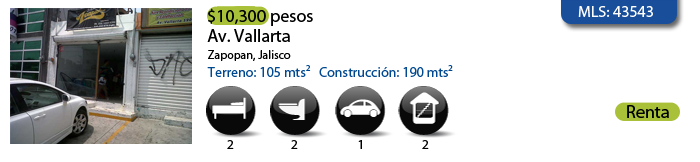
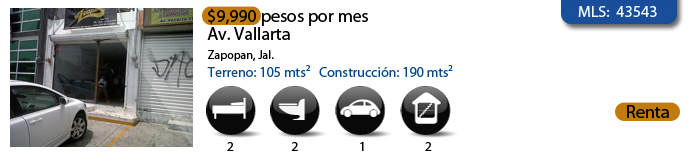
Se actualiza 43543 como parate de 2013-01-B

diff --git a/Locales/renta/43543/mls-43543.html b/Locales/renta/43543/mls-43543.html
@@ -1,0 +1,94 @@
+<style type="text/css">
+<!--
+body {
+	background-attachment: fixed;
+	background-color: #699BDA;
+	background-image: url(../../../imgs/corp/fondo.jpg);
+	background-repeat: no-repeat;
+	background-position:top center;
+	margin-top: 0px;
+	margin-right: 0px;
+	margin-bottom: 0px;
+	margin-left: 0px;
+	}
+-->
+</style>
+<script src="Scripts/AC_RunActiveContent.js" type="text/javascript"></script>
+<title>Coldwell Banker Andares | Bienes Ra&iacute;ces</title>
+<script type="text/javascript">
+<!--
+function MM_swapImgRestore() { //v3.0
+  var i,x,a=document.MM_sr; for(i=0;a&&i<a.length&&(x=a[i])&&x.oSrc;i++) x.src=x.oSrc;
+}
+function MM_preloadImages() { //v3.0
+  var d=document; if(d.images){ if(!d.MM_p) d.MM_p=new Array();
+    var i,j=d.MM_p.length,a=MM_preloadImages.arguments; for(i=0; i<a.length; i++)
+    if (a[i].indexOf("#")!=0){ d.MM_p[j]=new Image; d.MM_p[j++].src=a[i];}}
+}
+
+function MM_findObj(n, d) { //v4.01
+  var p,i,x;  if(!d) d=document; if((p=n.indexOf("?"))>0&&parent.frames.length) {
+    d=parent.frames[n.substring(p+1)].document; n=n.substring(0,p);}
+  if(!(x=d[n])&&d.all) x=d.all[n]; for (i=0;!x&&i<d.forms.length;i++) x=d.forms[i][n];
+  for(i=0;!x&&d.layers&&i<d.layers.length;i++) x=MM_findObj(n,d.layers[i].document);
+  if(!x && d.getElementById) x=d.getElementById(n); return x;
+}
+
+function MM_swapImage() { //v3.0
+  var i,j=0,x,a=MM_swapImage.arguments; document.MM_sr=new Array; for(i=0;i<(a.length-2);i+=3)
+   if ((x=MM_findObj(a[i]))!=null){document.MM_sr[j++]=x; if(!x.oSrc) x.oSrc=x.src; x.src=a[i+2];}
+}
+//-->
+</script>
+<script src="Scripts/AC_ActiveX.js" type="text/javascript"></script>
+<body onLoad="MM_preloadImages('Botones/Departamentos2.png','Botones/Terrenos2.png','Botones/Locales2.png','Botones/Bodegas2.png','Botones/Oficinas2.png','Menu/resto.png','Menu/queescb2.png','Menu/garantia2.png','Menu/oficinas2.png','Menu/personal2.png','Menu/contactanos2.png','Botones/Casas2.png')">
+ <table width="100%" height="459" border="0" cellpadding="0" cellspacing="0">
+  <tr>
+    <td width="40%" height="116">&nbsp;</td>
+    <td width="136"><img src="../../../imgs/corp/logo.jpg" width="136" height="75"></td>
+    <th width="12" nowrap="nowrap">&nbsp;</th>
+    <td width="46"><a href="../../../index.html" onMouseOut="MM_swapImgRestore()" onMouseOver="MM_swapImage('Casas','','../../../imgs/btn/Casas2.png',1)"><img src="../../../imgs/btn/Casas1.png" name="Casas" width="46" height="22" border="0"></a></td>
+    <th width="12" nowrap="nowrap">&nbsp;</th>
+    <td width="134"><a href="../../../Departamentos.html" onMouseOut="MM_swapImgRestore()" onMouseOver="MM_swapImage('Departamentos','','../../../imgs/btn/Departamentos2.png',1)"><img src="../../../imgs/btn/Departamentos1.png" name="Departamentos" width="134" height="22" border="0" id="Departamentos" /></a></td>
+    <th width="12" nowrap="nowrap">&nbsp;</th>
+    <td width="80"><a href="../../../Terrenos.html" onMouseOut="MM_swapImgRestore()" onMouseOver="MM_swapImage('Terrenos','','../../../imgs/btn/Terrenos2.png',1)"><img src="../../../imgs/btn/Terrenos1.png" name="Terrenos" width="80" height="22" border="0" id="Terrenos" /></a></td>
+    <th width="12" nowrap="nowrap">&nbsp;</th>
+    <td width="67"><a href="../../../Locales.html" onMouseOut="MM_swapImgRestore()" onMouseOver="MM_swapImage('Locales','','../../../imgs/btn/Locales2.png',1)"><img src="../../../imgs/btn/Locales1.png" name="Locales" width="67" height="22" border="0" id="Locales" /></a></td>
+    <th width="12" nowrap="nowrap">&nbsp;</th>
+    <td width="76"><a href="../../../Bodegas.html" onMouseOut="MM_swapImgRestore()" onMouseOver="MM_swapImage('Bodegas','','../../../imgs/btn/Bodegas2.png',1)"><img src="../../../imgs/btn/Bodegas1.png" name="Bodegas" width="76" height="22" border="0" id="Bodegas" /></a></td>
+    <th width="12" nowrap="nowrap">&nbsp;</th>
+    <td width="74"><a href="../../../Oficinas.html" onMouseOut="MM_swapImgRestore()" onMouseOver="MM_swapImage('Oficinas','','../../../imgs/btn/2oficinas.png',1)"><img src="../../../imgs/btn/Oficinas1.png" name="Oficinas" width="74" height="22" border="0" id="Oficinas" /></a></td>
+    <th width="220" nowrap="nowrap"><img src="../../../imgs/banners/Banner1.gif" width="200" height="113"></th>
+    <td width="40%">&nbsp;</td>
+  </tr>
+  
+  <tr>
+    <td width="40" rowspan="2">&nbsp;</td>
+    <td height="30" colspan="14" align="center" valign="bottom">&nbsp;</td>
+    <td width="40%" rowspan="2">&nbsp;</td>
+  </tr>
+  <tr>
+    <td height="1000" colspan="14" align="left" valign="top"><table width="700" border="0" cellspacing="0" cellpadding="0">
+      <tr>
+        <td width="532" height="5126" valign="top" scope="col"><p><img src="Web-2.png" width="700" height="211"><img src="facebook/1.jpg" width="700" height="525"></p>
+          <p>&nbsp;<br/></p>
+          <p><img src="facebook/2.jpg" width="700" height="525"></p>
+          <p><img src="facebook/3.jpg" width="700" height="525"></p>
+          <p><img src="facebook/4.jpg" width="700" height="525"></p>
+          <p><img src="facebook/5.jpg" width="700" height="525"></p>
+          <p><img src="facebook/6.jpg" width="700" height="525"></p>
+          <p><img src="facebook/7.jpg" width="525" height="700"> </p>
+          <p><img src="facebook/8.jpg" width="700" height="525"></p>
+          <p><img src="facebook/9.jpg" width="700" height="525"></p></td>
+        <th width="20" valign="top" nowrap scope="col"><p>&nbsp;</p>
+          <p>&nbsp;</p>
+          <p>&nbsp;</p></th>
+        <th width="200" height="5126" align="left" valign="top" scope="col"><a href="../../../ColdwellBankerAndares.html" onMouseOut="MM_swapImgRestore()" onMouseOver="MM_swapImage('qes','','../../../imgs/btn/queescb2.png',1)"><img src="../../../imgs/btn/queescb.png" name="qes" width="200" height="38" border="0"></a><a href="../../../Garantia.html" onMouseOut="MM_swapImgRestore()" onMouseOver="MM_swapImage('garantia','','../../../imgs/btn/garantia2.png',1)"><img src="../../../imgs/btn/garantia.png" name="garantia" width="200" height="30" border="0"></a><a href="../../../Historia.html" onMouseOut="MM_swapImgRestore()" onMouseOver="MM_swapImage('historia','','../../../imgs/btn/historia2.png',0)"><img src="../../../imgs/btn/historia.png" name="historia" width="200" height="30" border="0"></a><a href="../../../Instalaciones.html" onMouseOut="MM_swapImgRestore()" onMouseOver="MM_swapImage('oficinas','','../../../imgs/btn/Oficinas2.png',1)"><img src="../../../imgs/btn/oficinas.png" name="oficinas" width="200" height="30" border="0"></a><a href="../../../Personal.html" onMouseOut="MM_swapImgRestore()" onMouseOver="MM_swapImage('personal','','../../../imgs/btn/personal2.png',1)"><img src="../../../imgs/btn/personal.png" name="personal" width="200" height="30" border="0"></a><a href="../../../Contactanos.html" onMouseOut="MM_swapImgRestore()" onMouseOver="MM_swapImage('contacto','','../../../imgs/btn/contactanos2.png',1)"><img src="../../../imgs/btn/contactanos.png" name="contacto" width="200" height="30" border="0"></a><img src="../../../imgs/btn/inferior.png" name="Image18" width="200" height="212" border="0"></th>
+      </tr>
+    </table></td>
+  </tr>
+  
+  <tr>
+    <td colspan="16">&nbsp;</td>
+  </tr>
+</table>

diff --git a/Locales.html b/Locales.html
@@ -69,7 +69,7 @@ function MM_swapImage() { //v3.0
   <tr>
     <td height="1817" colspan="15" align="left" valign="top"><table width="700" border="0" cellspacing="0" cellpadding="0">
       <tr>
-        <td width="532" height="1815" valign="top" scope="col"><p><a href="Locales/renta/42483/mls-42483.html"><img src="Locales/renta/42483/Web-1.png" width="700" height="162"></a><a href="Locales/renta/42330/mls-42330.html"><img src="Locales/renta/42330/Web-1.png" width="700" height="162"></a><a href="Locales/renta/42495/mls-42495.html"><img src="Locales/renta/42495/Web-1.png" width="700" height="162"></a><a href="Locales/renta/42327/mls-42327.html"><img src="Locales/renta/42327/Web-1.png" width="700" height="162"></a><a href="Locales/renta/44575/mls-44575.html"><img src="Locales/renta/44575/Web-1.png" width="700" height="162"></a><a href="Locales/renta/45544/mls-45544.html"><img src="Locales/renta/45544/Web-1.png" width="700" height="162"></a><a href="Locales/renta/41761/mls-41761.html"><img src="Locales/renta/41761/Web-1.png" width="700" height="162"></a><a href="Locales/renta/43543/mls-42543.html"><img src="Locales/renta/43543/Web-1.png" width="700" height="162"></a><a href="Locales/venta/47383/mls-47383.html"><img src="Locales/venta/47383/Web-1.png" width="700" height="162"></a><!--<a href="Locales/renta/43892/mls-43892.html"><img src="Locales/renta/43892/Web-1.png" width="700" height="162"></a>--><!--<a href="Locales/venta/44961/mls-44961.html"><img src="Locales/venta/44961/Web-1.png" width="700" height="162"></a>--><a href="LomaDorada.html"><img src="Locales/LomaDoradaPaseoLomaSur/Web1.png" alt="" width="700" height="162" border="0"></a><a href="Locales/venta/44969/mls-44969.html"><img src="Locales/venta/44969/Web-1.png" width="700" height="162"></a><a href="Locales/venta/45572/mls-45572.html"><img src="Locales/venta/45572/Web-1.png" width="700" height="162"></a></p></td>
+        <td width="532" height="1815" valign="top" scope="col"><p><a href="Locales/renta/42483/mls-42483.html"><img src="Locales/renta/42483/Web-1.png" width="700" height="162"></a><a href="Locales/renta/42330/mls-42330.html"><img src="Locales/renta/42330/Web-1.png" width="700" height="162"></a><a href="Locales/renta/42495/mls-42495.html"><img src="Locales/renta/42495/Web-1.png" width="700" height="162"></a><a href="Locales/renta/42327/mls-42327.html"><img src="Locales/renta/42327/Web-1.png" width="700" height="162"></a><a href="Locales/renta/44575/mls-44575.html"><img src="Locales/renta/44575/Web-1.png" width="700" height="162"></a><a href="Locales/renta/45544/mls-45544.html"><img src="Locales/renta/45544/Web-1.png" width="700" height="162"></a><a href="Locales/renta/41761/mls-41761.html"><img src="Locales/renta/41761/Web-1.png" width="700" height="162"></a><a href="Locales/renta/43543/mls-43543.html"><img src="Locales/renta/43543/Web-1.png" width="700" height="162"></a><a href="Locales/venta/47383/mls-47383.html"><img src="Locales/venta/47383/Web-1.png" width="700" height="162"></a><!--<a href="Locales/renta/43892/mls-43892.html"><img src="Locales/renta/43892/Web-1.png" width="700" height="162"></a>--><!--<a href="Locales/venta/44961/mls-44961.html"><img src="Locales/venta/44961/Web-1.png" width="700" height="162"></a>--><a href="LomaDorada.html"><img src="Locales/LomaDoradaPaseoLomaSur/Web1.png" alt="" width="700" height="162" border="0"></a><a href="Locales/venta/44969/mls-44969.html"><img src="Locales/venta/44969/Web-1.png" width="700" height="162"></a><a href="Locales/venta/45572/mls-45572.html"><img src="Locales/venta/45572/Web-1.png" width="700" height="162"></a></p></td>
         <th width="20" valign="top" nowrap scope="col">&nbsp;</th>
         <th width="200" height="1815" align="left" valign="top" scope="col"><p><a href="ColdwellBankerAndares.html" onMouseOut="MM_swapImgRestore()" onMouseOver="MM_swapImage('qes','','Menu/queescb2.png',1)"><img src="Menu/queescb.png" name="qes" width="200" height="38" border="0"></a><a href="Garantia.html" onMouseOut="MM_swapImgRestore()" onMouseOver="MM_swapImage('Garantia','','Menu/garantia2.png',1)"><img src="Menu/garantia.png" name="Garantia" width="200" height="30" border="0"></a><a href="Historia.html" onMouseOut="MM_swapImgRestore()" onMouseOver="MM_swapImage('historia','','Menu/historia2.png',0)"><img src="Menu/historia.png" name="historia" width="200" height="30" border="0"></a><a href="Instalaciones.html" onMouseOut="MM_swapImgRestore()" onMouseOver="MM_swapImage('oficinas','','Menu/oficinas2.png',1)"><img src="Menu/oficinas.png" name="oficinas" width="200" height="30" border="0"></a><a href="Personal.html" onMouseOut="MM_swapImgRestore()" onMouseOver="MM_swapImage('personal','','Menu/personal2.png',1)"><img src="Menu/personal.png" name="personal" width="200" height="30" border="0"></a><a href="Contactanos.html" onMouseOut="MM_swapImgRestore()" onMouseOver="MM_swapImage('contacto','','Menu/contactanos2.png',1)"><img src="Menu/contactanos.png" name="contacto" width="200" height="30" border="0"></a><a href="#" onMouseOut="MM_swapImgRestore()" onMouseOver="MM_swapImage('Image18','','Menu/resto.png',1)"><img src="Menu/resto.png" name="Image18" width="200" height="212" border="0"></a></p>          </th>
       </tr>
